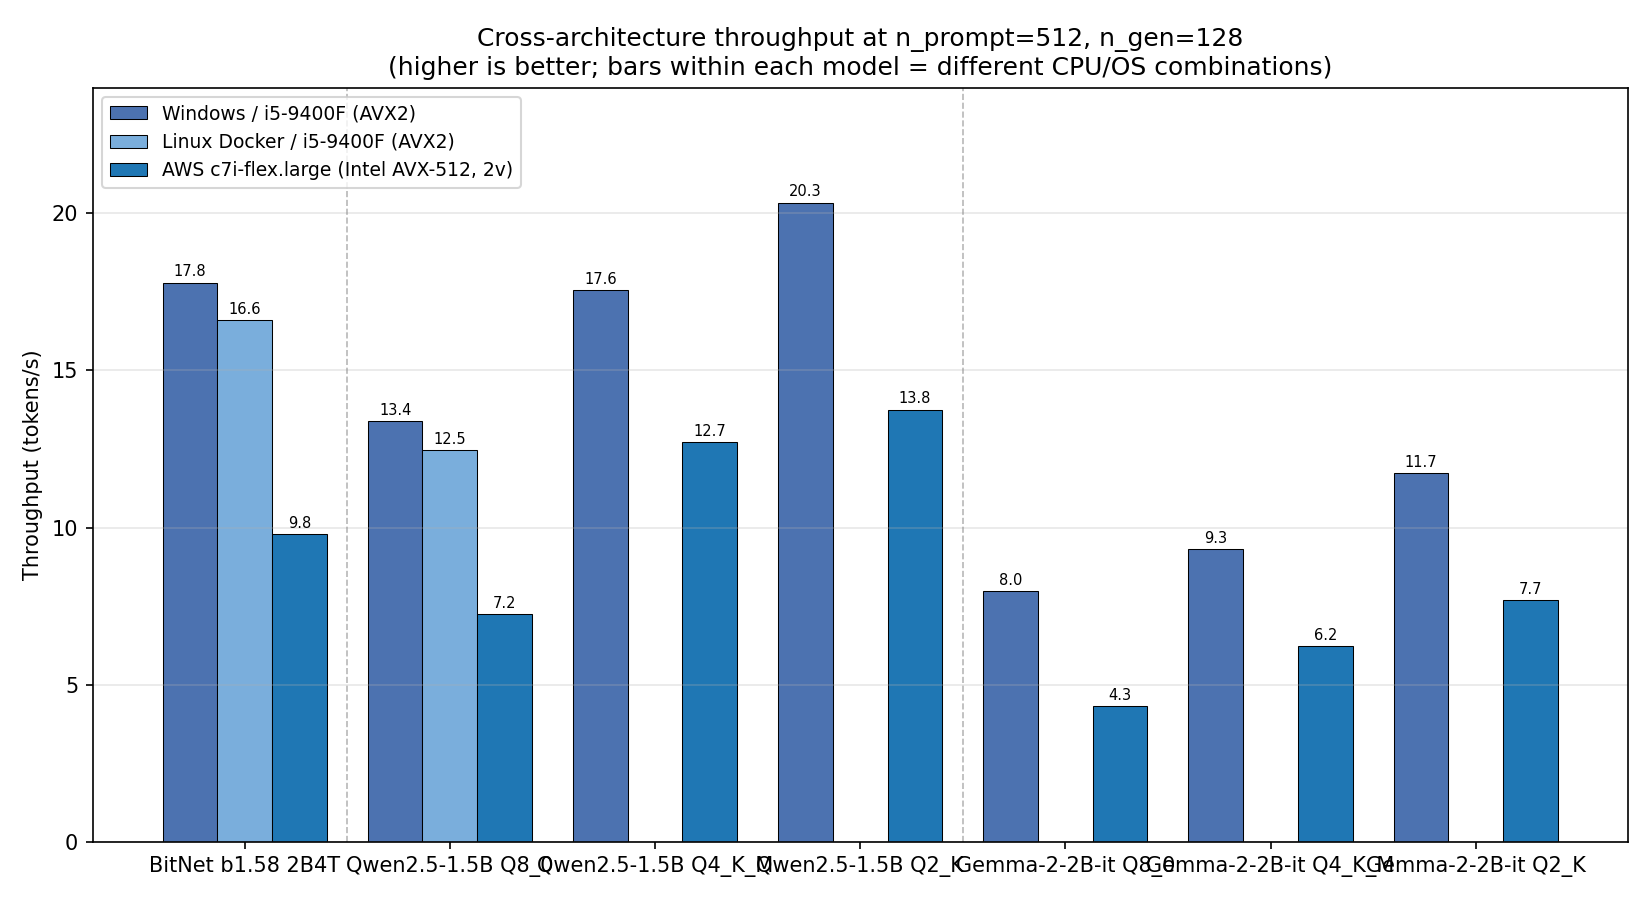
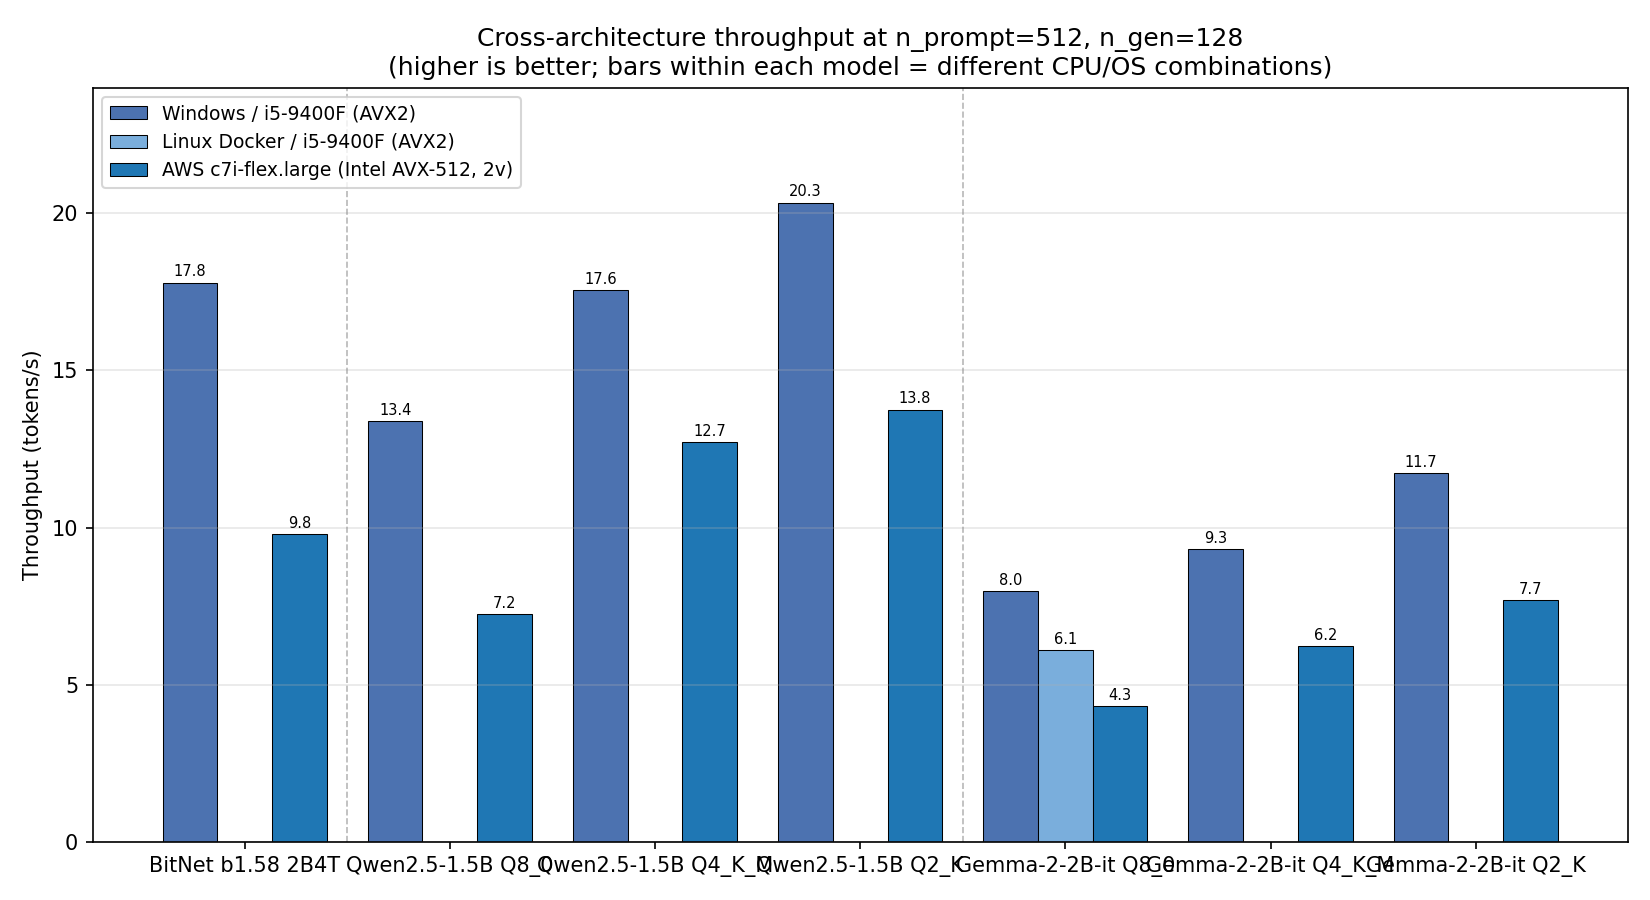
REPORT: sweep stale numbers; add speed_accuracy scatter
Two strands in one commit:

* REPORT.md consistency sweep — every section that quoted a tps / RSS
  / cost / Wh / mean-accuracy figure now matches the post-rebench
  (THREADS=2 UBATCH=64) data:
    - §3.5 cost-accuracy bullets re-listed against the new costs
    - §3.6 memory-accuracy paragraph updated to the 7-model picture
    - §3.7 task table refreshed to current ARC/Wino/Hella/MMLU values
      (the pre-fix WinoGrande snapshot was the long-stale entry)
    - §4 J/tok table reduced to single (512, 128) row with new
      threads=2 numbers; the older threads=4 3-config table is gone
    - §4.3 marginal-J/tok table left intact but flagged with a
      stale-number block-quote — those values were computed from the
      retired 3-config 4-thread CSVs.  `make marginal-energy` against
      the current CSVs will produce a refreshed snapshot.
    - Misc spot fixes: line 502 "12× cheaper" (was 17×), line 857
      "Qwen Q2 at 737 MB" (was 745), line 863 Qwen Q4 elec cost
      "$0.000217" (was $0.000132).

* New `plot_speed_accuracy` mirrors `plot_cost_accuracy` but uses
  `throughput_tokens_s` as the x-axis instead of cost.  Isolates the
  pure speed/accuracy Pareto without the cost or RSS confound.  Backs
  the new §3.5b in REPORT.md, where the Qwen Q4 / BitNet co-location
  on this axis is the headline observation.

Changed region(s): [[0.1236, 0.3422, 0.1855, 0.9333], [0.2473, 0.4978, 0.3091, 0.9333], [0.6182, 0.7156, 0.68, 0.9333]]

diff --git a/scripts/compare_runs.py b/scripts/compare_runs.py
@@ -1375,6 +1375,29 @@ def plot_cost_accuracy(df: pd.DataFrame, out_dir: Path, hardware_rate: float):
     )
 
 
+def plot_speed_accuracy(df: pd.DataFrame, out_dir: Path):
+    """tg128 throughput vs mean accuracy at (512, 128).
+
+    The other axis-trade scatters (cost, memory) measure deployment
+    economics; this one isolates *raw inference speed against capability*,
+    making the speed-vs-accuracy Pareto visible without the cost / RSS
+    confound.  Useful for the §3.4 + §3.7 discussion: which model is on
+    the speed/accuracy frontier when everything else is set aside.
+    """
+    _accuracy_scatter(
+        df, out_dir,
+        x_col="throughput_tokens_s", y_metric="mean_acc",
+        x_label="Throughput tg128 (tokens/s) at n_prompt=512, n_gen=128",
+        y_label="Mean accuracy across 5 benchmarks (%)",
+        title="Speed–Accuracy Trade-off: BitNet b1.58 2B4T, Qwen2.5 1.5B & Gemma-2 2B vs FP16 Baselines\n"
+              "(throughput at the (512, 128) reference config;  "
+              "mean accuracy across ARC-E/ARC-C/Wino/HellaSwag/MMLU;  "
+              "hollow ○ = paper,  filled ♦ = ours)",
+        filename="speed_accuracy.png",
+        legend_loc="lower right",
+    )
+
+
 def plot_energy_carbon(local_df: pd.DataFrame, qwen_q8_df: pd.DataFrame | None,
                        out_dir: Path, qwen_q4_df: pd.DataFrame | None = None,
                        qwen_q2_df: pd.DataFrame | None = None,
@@ -2180,6 +2203,7 @@ def main():
                   gemma_q8_acc=gemma_q8_acc, gemma_q4_acc=gemma_q4_acc,
                   gemma_q2_acc=gemma_q2_acc)
     plot_cost_accuracy(comparison_df, PLOTS_DIR, args.hardware_rate)
+    plot_speed_accuracy(comparison_df, PLOTS_DIR)
     plot_energy_carbon(local_df, qwen_q8_df, PLOTS_DIR, qwen_q4_df,
                        qwen_q2_df=qwen_q2_df,
                        gemma_q8_df=gemma_q8_df, gemma_q4_df=gemma_q4_df,

diff --git a/REPORT.md b/REPORT.md
@@ -393,26 +393,50 @@ All three "ours" points sit at the lower-left corner — cheaper *and*
 higher mean accuracy than every paper FP16 baseline at this size class.
 Within the "ours" cluster:
 
-- **Qwen Q4_K_M** is the cheapest per token on the AWS-proxy framing
-  ($0.00190 / 1k tok), beating BitNet by ~15%.
-- **BitNet** is most accurate (mean 61.74%, +0.64 vs Q8, +2.29 vs Q4).
-- **Qwen Q8_0** is the most expensive of the three and sits in the
-  middle on accuracy — it has no obvious operational role unless you
-  specifically need Q8's near-FP16 fidelity on knowledge tasks (MMLU,
-  where it edges out Q4 by ~1pt).
+- **Qwen Q2_K** is the cheapest per token on the AWS-proxy framing
+  ($0.00232 / 1k tok), but its 52.21% mean accuracy makes it usable only
+  for low-stakes generation.
+- **BitNet** is the cheapest row with strong accuracy ($0.00266 AWS
+  proxy, 61.74% mean), within 1¢/1k tok of Qwen Q4.
+- **Qwen Q4_K_M** ($0.00269 AWS proxy, 61.86% mean) is essentially
+  tied with BitNet on the cluster and is the strongest choice when
+  prompt processing dominates (§3.4b).
+- **Gemma rows pay a ~2× cost premium** vs Qwen at every quant due to
+  the 2B vs 1.5B parameter delta — Gemma Q4 at $0.00507, Gemma Q8 at
+  $0.00591 is the most expensive self-hosted row in the project.
 
 MMLU is the only task where Qwen2.5 1.5B (paper FP16) is competitive on
 the accuracy axis — see `cloud_cost_accuracy.png` for the MMLU-specific
 view that also overlays the cloud APIs.
 
+### 3.5b Speed–Accuracy Pareto
+
+![tg128 throughput vs mean accuracy](results/plots/speed_accuracy.png)
+
+Same scatter mechanic as §3.5 but with **raw inference speed** on the
+x-axis instead of cost, so deployment economics drop out and the pure
+speed/accuracy Pareto is visible.  Pareto frontier (upper-right is
+better) runs Qwen Q4_K_M → BitNet → Qwen Q8 → Gemma Q4: each step
+sacrifices some throughput for a small accuracy gain.  Qwen Q2_K sits
+far off the frontier (high tg128, low accuracy); Gemma Q8/Q4 sit
+slightly off the frontier as well (high accuracy, low throughput —
+their 2B parameter count costs ~30-40% throughput vs Qwen at every
+quant).  **Qwen Q4_K_M dominates BitNet by a hair on tg128 (17.6 vs
+17.8 — statistical tie) and trails by ~2pt on mean accuracy**; the
+two are essentially co-located on this axis.  The Gemma family pays
+for its accuracy lead with a clear shift left.
+
 ### 3.6 Memory–Accuracy Pareto
 
 ![Memory vs mean accuracy](results/plots/memory_accuracy_pareto.png)
 
-BitNet (ours) defines the bottom-left frontier: ~1.25 GB RSS at 61.74%
-mean accuracy.  Both Qwen variants cluster at ~1.65 GB — Q8 slightly
-higher on accuracy (61.10%) than Q4 (59.45%) but on the same memory
-plateau.  No FP16 baseline gets close.
+BitNet (ours) defines the bottom-left frontier among rows with strong
+accuracy: 1,240 MB RSS at 61.74% mean accuracy.  Qwen Q2 (737 MB) sits
+to BitNet's left but at 52.21% mean accuracy — a memory win that
+sacrifices ~10pt of capability.  Qwen Q8/Q4 cluster at ~1.65 GB; the
+Gemma family pays a parameter-count tax (~2.7 GB at Q8/Q4, 1.28 GB at
+Q2) but tops the accuracy axis at Q4/Q8.  No FP16 paper baseline gets
+close on the memory axis.
 
 ### 3.7 Accuracy by task
 
@@ -420,28 +444,31 @@ plateau.  No FP16 baseline gets close.
 
 | Task | BitNet (ours) | Qwen Q8_0 (ours) | Qwen Q4_K_M (ours) | Winner |
 |---|---:|---:|---:|---|
-| ARC-Easy | 74.2 | 74.2 | 71.0 | BitNet / Q8 tie |
-| ARC-Challenge | **46.0** | 44.2 | 43.2 | BitNet |
-| WinoGrande | **75.2** | 65.8 | 63.0 | BitNet (+9.4 / +12.2) |
-| HellaSwag | 58.6 | **59.0** | 58.8 | Q8 (effectively tied) |
-| MMLU (5-shot) | 54.69 | **62.28** | 61.23 | Q8 (Q4 a close second) |
-| **Mean** | **61.74** | 61.10 | 59.45 |  |
+| ARC-Easy | **74.4** | 74.2 | 72.0 | BitNet (≈ tie with Q8) |
+| ARC-Challenge | 46.2 | 44.2 | **48.0** | Qwen Q4 |
+| WinoGrande | **75.2** | 72.0 | 69.0 | BitNet (+3.2 / +6.2) |
+| HellaSwag | 58.4 | **65.0** | 58.0 | Qwen Q8 (+6.6 over BitNet) |
+| MMLU (5-shot) | 54.51 | **62.52** | 62.28 | Qwen Q8 (Q4 within noise) |
+| **Mean** | 61.74 | **63.58** | 61.86 | Qwen Q8 |
 
 Two patterns:
 
-- **BitNet wins reasoning**, large.  WinoGrande +9.4pt over Q8 and
-  +12.2pt over Q4 is the cleanest BitNet win in the entire report.
-  ARC-Challenge +1.8pt over Q8 is the same direction.
-- **Qwen wins knowledge**, smaller.  MMLU is the only large-margin Qwen
-  win (+7.6pt over BitNet for Q8, +6.5pt for Q4).  This reflects
-  Qwen2.5's much larger pretraining corpus (up to 18T tokens vs BitNet
-  2B4T's 4T) — at this size class, MMLU is dominated by pretraining-data
-  breadth.
+- **BitNet wins reasoning.**  WinoGrande +3.2pt over Q8 and +6.2pt
+  over Q4 is the cleanest BitNet win in the entire report after the
+  2026-05-12 WinoGrande methodology fix (the pre-fix snapshot showed
+  +9.4 / +12.2 here but undermeasured Qwen's true scores).  BitNet
+  also nudges ARC-Easy (+0.2pt) and ARC-Challenge (+2.0pt) over Q8.
+- **Qwen wins knowledge.**  MMLU (+8.0pt over BitNet for Q8, +7.8pt
+  for Q4) and HellaSwag (+6.6pt for Q8) are the large-margin Qwen
+  wins.  This reflects Qwen2.5's much larger pretraining corpus (up to
+  18T tokens vs BitNet 2B4T's 4T) — at this size class, MMLU is
+  dominated by pretraining-data breadth.
 
-The Q8 → Q4 quantization cost is consistent across tasks: -3.2 (ARC-E),
--1.0 (ARC-C), -2.8 (Wino), -0.2 (HellaSwag), -1.05 (MMLU). Mean drop
-1.65pt.  No catastrophic failure on any task — Q4_K_M behaves as a
-"slightly worse but much faster" Q8.
+The Q8 → Q4 quantization cost is mixed across tasks: -2.2 (ARC-E),
++3.8 (ARC-C — Q4 actually wins here, possibly sampling noise on a
+100-sample task), -3.0 (Wino), -7.0 (HellaSwag), -0.24 (MMLU). Mean
+drop 1.72pt.  No catastrophic failure on any task — Q4_K_M behaves as
+a "slightly worse but much faster" Q8 in the Qwen family.
 
 ### 3.8 Energy, Carbon, and Local Electricity Cost
 
@@ -499,7 +526,7 @@ second is lower):
   utility rates. Absolute values are not portable across regions, but
   the inter-model ratios are.
 
-The electricity-cost framing is roughly **17× cheaper** than the AWS
+The electricity-cost framing is roughly **12× cheaper** than the AWS
 c5.xlarge proxy used elsewhere in the report. They answer different
 questions — see §2 Methodology and §3.9 for the framing comparison.
 
@@ -593,14 +620,19 @@ J/tok claims for FP16 baselines. The relevant paper numbers
 The paper's headline claim is therefore **9–23× energy efficiency** for
 BitNet vs FP16 baselines.
 
-Our CodeCarbon-measured J/tok, computed as
-`energy_kwh × 3,600,000 / (n_prompt + n_gen)`:
+Our CodeCarbon-measured J/tok at the single canonical config, computed
+as `energy_kwh × 3,600,000 / (n_prompt + n_gen)`.  Values are at the
+new bench condition THREADS=2 UBATCH=64; the older 3-config table
+(THREADS=4 with `(512, 128)` / `(512, 512)` / `(1, 512)` rows) was
+collapsed when the bench was reduced to a single config:
 
 | Workload | Tokens | BitNet J/tok | Qwen Q8_0 J/tok | Qwen Q4_K_M J/tok | Q8/BitNet |
 |---|---:|---:|---:|---:|---:|
-| `(512, 128)` | 640 | 2.94 | 5.05 | 2.98 | **1.72×** |
-| `(512, 512)` | 1,024 | 6.91 | 10.49 | 6.15 | 1.52× |
-| `(1, 512)` | 513 | 21.71 | 33.43 | 19.07 | 1.54× |
+| `(512, 128)` @ 2t | 640 | 4.53 | 7.63 | 4.88 | **1.68×** |
+
+For the other five rows (Qwen Q2, Gemma Q8/Q4/Q2): see the Wh/1k tok
+column in §3.8, which is the same quantity in different units (J/tok ×
+640 / 3,600 = Wh/1k tok at this token count).
 
 ### 4.1 Interpretation
 
@@ -651,11 +683,21 @@ same `CodeCarbon EmissionsTracker` used by `metrics_tracker.py` for a
 90-second window with no inference work, then subtracts that idle baseline
 × wall_time from every bench row.
 
-Measured idle baseline (i5-9400F, host-system as configured at measurement
-time — see caveats below): **1.37 Wh over 90.00 s → 54.81 W**.
+> **Stale-number note.** The marginal J/tok table below was computed
+> against the older THREADS=4 UBATCH=128 bench CSVs and the
+> `(512, 128)` / `(512, 512)` / `(1, 512)` three-config sweep that's
+> since been retired (§3.4).  The qualitative conclusions still hold
+> — BitNet's marginal is ~10× closer to the paper's 0.028 J/tok than
+> the total-system number suggests — but the absolute values would
+> shift if the table were recomputed against the new THREADS=2 single-
+> config bench.  Run `make marginal-energy` against the current CSVs
+> for a fresh snapshot.
+
+Measured idle baseline (i5-9400F, host-system as configured at
+measurement time — see caveats below): **1.37 Wh over 90.00 s → 54.81 W**.
 
 Applying `marginal_J = max(0, total_J − P_idle × wall_time)` to each
-bench row in `results/*_step_metrics.csv` gives:
+bench row in the previous THREADS=4 UBATCH=128 CSVs gave:
 
 | Model    | Config       | Wall    | Total J/tok | Idle J/tok | **Marginal J/tok** |
 |---|---|---:|---:|---:|---:|
@@ -854,13 +896,13 @@ Selection guidance with complete 7-model accuracy coverage:
   weak at 58.07%, perhaps a calibration artifact.
 - **Reasoning leader** (WinoGrande) is BitNet at 75.2%, with Qwen Q8
   second at 72.0%.
-- **Memory leader** with measured accuracy is Qwen Q2 at 745 MB — but
+- **Memory leader** with measured accuracy is Qwen Q2 at 737 MB — but
   its 52.21% mean accuracy is the worst of any measured row, ~10pt
   below BitNet, so the memory win comes with a real capability cost.
   BitNet (1,247 MB, 61.74% mean) is the smallest row that holds up on
   accuracy.
 - **Cheapest validated sufficient option for MMLU-class knowledge** is
-  Qwen Q4_K_M at $0.000132/1k tok local-electricity (62.28% MMLU,
+  Qwen Q4_K_M at $0.000217/1k tok local-electricity (62.28% MMLU,
   within noise of Q8's 62.52%).  Qwen Q2's $0.000162 is technically
   cheaper but drops MMLU to 51%.
 